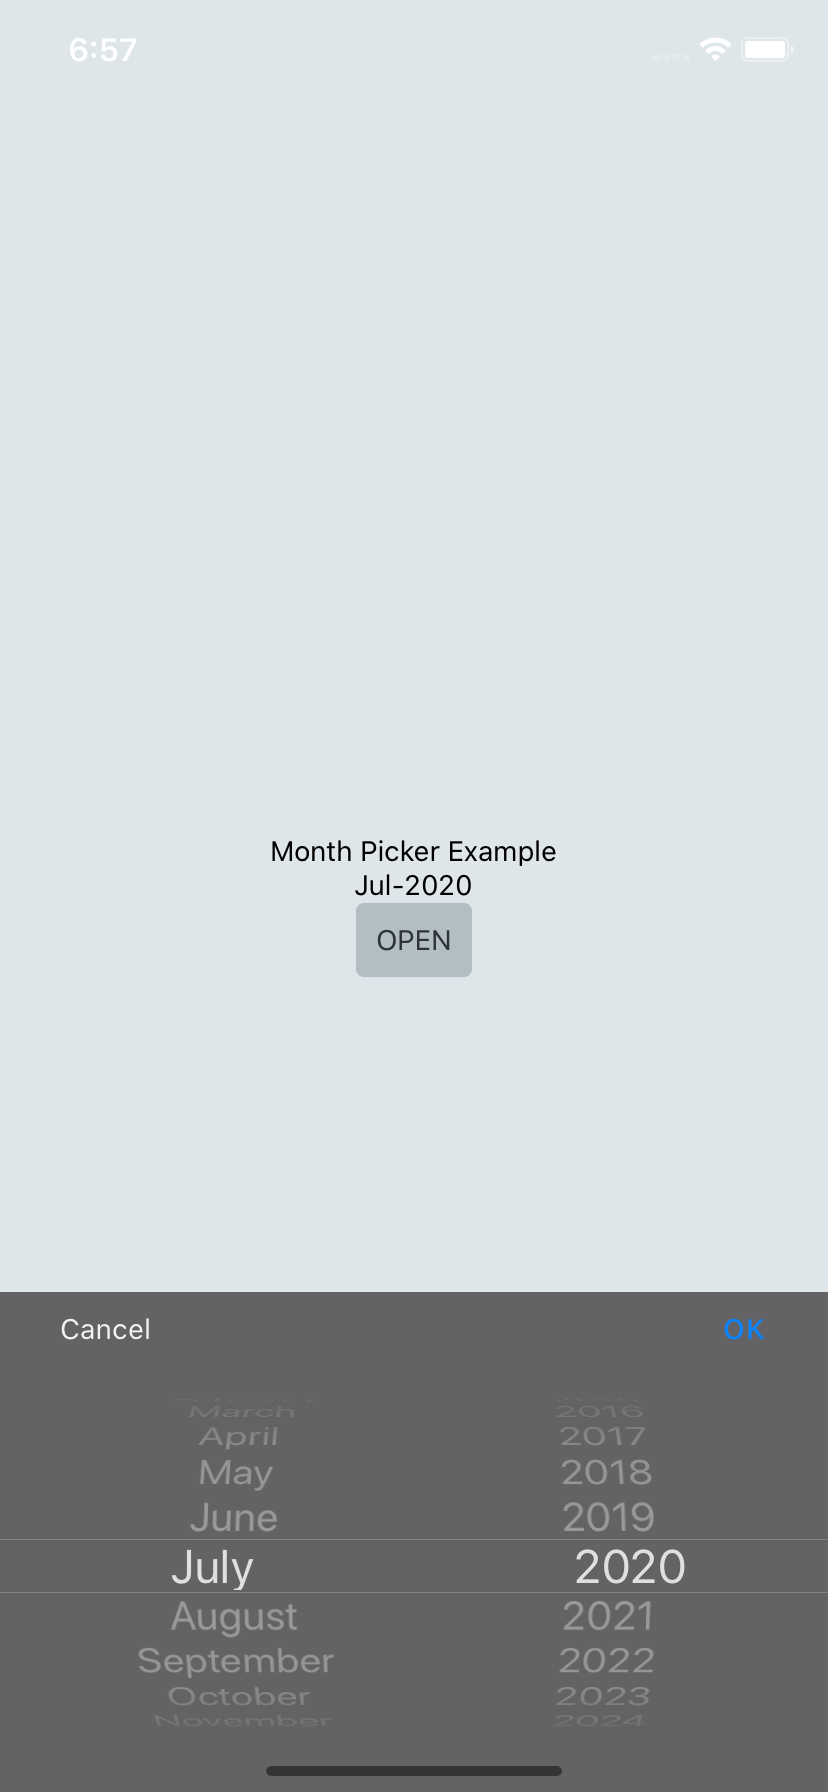
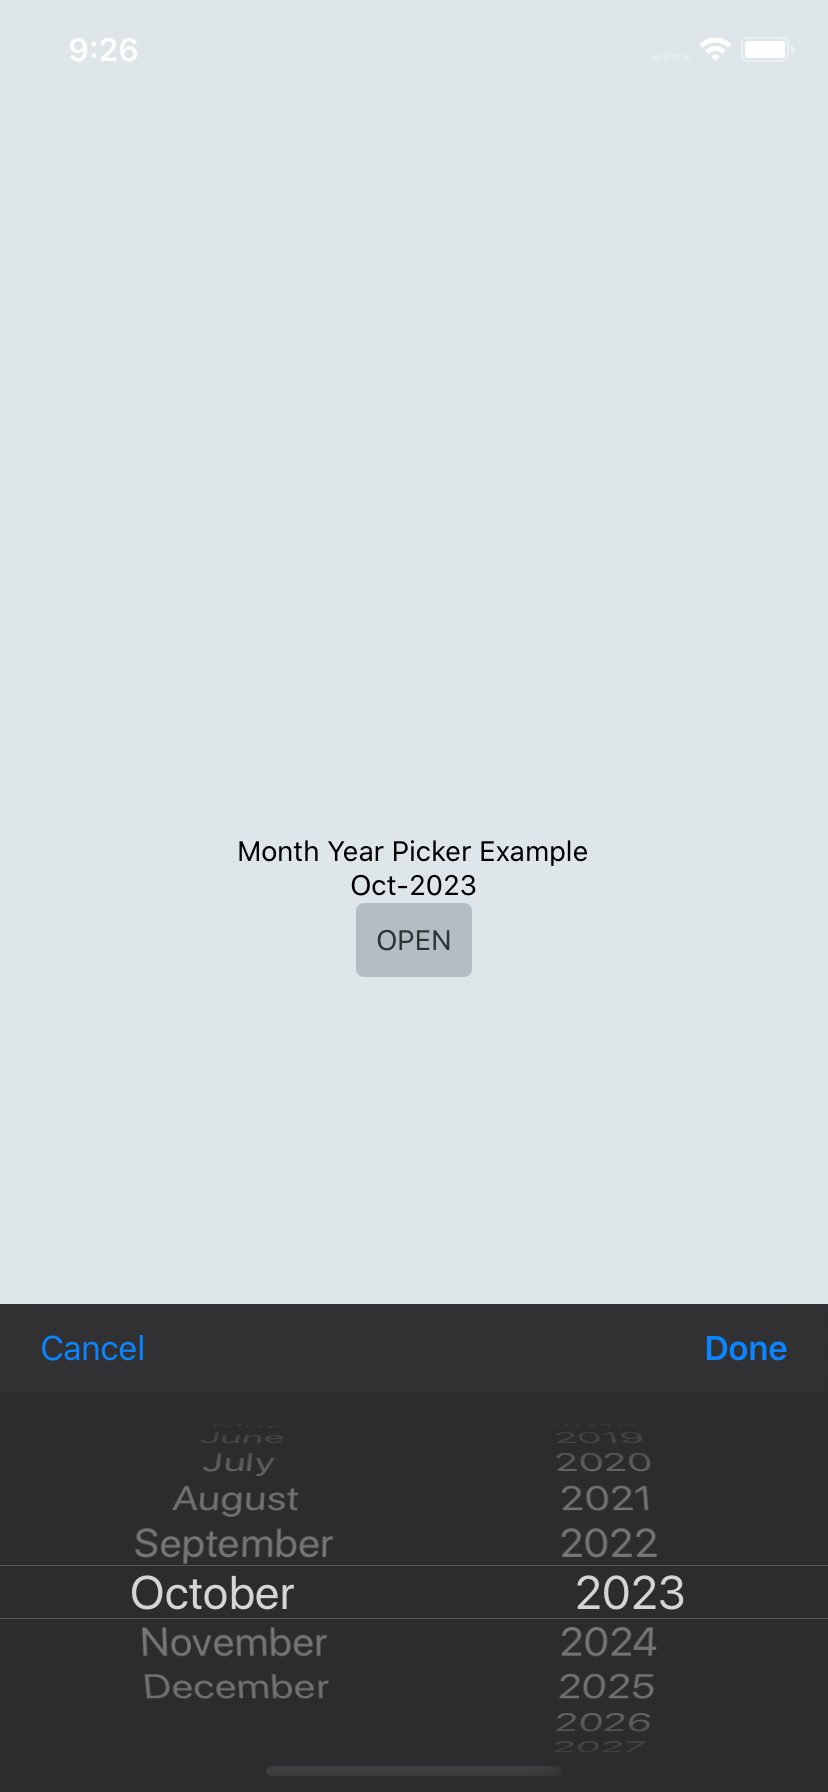
update README

Changed region(s): [[0.0, 0.7188, 1.0, 1.0], [0.3019, 0.4688, 0.6944, 0.5], [0.1208, 0.0, 0.151, 0.0312]]

diff --git a/src/MonthPicker.ios.js b/src/MonthPicker.ios.js
@@ -1,4 +1,4 @@
-import React from 'react';
+import React, { useState, useCallback, useEffect } from 'react';
 import { View, StyleSheet, Dimensions, Animated } from 'react-native';
 import moment from 'moment';
 import invariant from 'invariant';
@@ -23,97 +23,87 @@ const styles = StyleSheet.create({
   picker: { flex: 1 },
 });
 
-class MonthPicker extends React.PureComponent {
-  state = {
-    opacity: new Value(0),
-    currentDate: this.props.value,
-  };
+const MonthPicker = ({
+  value,
+  minimumDate,
+  maximumDate,
+  onChange: onConfirm,
+  locale = null,
+  ...restProps
+}) => {
+  invariant(value, 'value prop is required!');
 
-  slideIn = () => {
-    timing(this.state.opacity, {
+  const [opacity] = useState(new Value(0));
+  const [selectedDate, setSelectedDate] = useState(value);
+
+  useEffect(() => {
+    timing(opacity, {
       toValue: 1,
       duration: 300,
       useNativeDriver: true,
     }).start();
-  };
+    // eslint-disable-next-line react-hooks/exhaustive-deps
+  }, []);
 
-  slideOut = (callBack) => {
-    timing(this.state.opacity, {
-      toValue: 0,
-      duration: 250,
-      useNativeDriver: true,
-    }).start(callBack);
-  };
+  const onChange = useCallback(
+    ({ nativeEvent: { newDate } }) =>
+      setSelectedDate(moment(newDate, NATIVE_FORMAT).toDate()),
+    [],
+  );
 
-  onValueChange = (event) => {
-    const {
-      nativeEvent: { newDate },
-    } = event;
-    const date = moment(newDate, NATIVE_FORMAT).toDate();
-    this.setState({ currentDate: date });
-  };
+  const slideOut = useCallback(
+    (callback) =>
+      timing(opacity, {
+        toValue: 0,
+        duration: 250,
+        useNativeDriver: true,
+      }).start(callback),
+    // eslint-disable-next-line react-hooks/exhaustive-deps
+    [],
+  );
 
-  onConfirm = () => {
-    this.slideOut(
+  const onDone = useCallback(() => {
+    slideOut(
       ({ finished }) =>
-        finished &&
-        this.props.onChange &&
-        this.props.onChange(ACTION_DATE_SET, this.state.currentDate),
+        finished && onConfirm && onConfirm(ACTION_DATE_SET, selectedDate),
     );
-  };
+    // eslint-disable-next-line react-hooks/exhaustive-deps
+  }, [selectedDate]);
 
-  onCancel = () => {
-    this.slideOut(
+  const onCancel = useCallback(() => {
+    slideOut(
       ({ finished }) =>
-        finished &&
-        this.props.onChange &&
-        this.props.onChange(ACTION_DISMISSED, undefined),
+        finished && onConfirm && onConfirm(ACTION_DISMISSED, undefined),
     );
-  };
+    // eslint-disable-next-line react-hooks/exhaustive-deps
+  }, []);
 
-  componentDidMount() {
-    this.slideIn();
-  }
-
-  render() {
-    const {
-      value,
-      minimumDate,
-      maximumDate,
-      backgroundColor = null,
-      locale = null,
-    } = this.props;
-    invariant(value, 'value prop is required!');
-
-    return (
-      <Animated.View
-        style={{
-          ...styles.container,
-          opacity: this.state.opacity,
-          transform: [
-            {
-              translateY: this.state.opacity.interpolate({
-                inputRange: [0, 1],
-                outputRange: [150, 0],
-              }),
-            },
-          ],
-        }}>
-        <View style={styles.pickerContainer}>
-          <RNMonthPickerView
-            {...{ backgroundColor, locale }}
-            value={value.getTime()}
-            minimumDate={minimumDate.getTime()}
-            maximumDate={maximumDate.getTime()}
-            style={styles.picker}
-            onChange={this.onValueChange}
-            onCancel={this.onCancel}
-            onDone={this.onConfirm}
-          />
-        </View>
-      </Animated.View>
-    );
-  }
-}
+  return (
+    <Animated.View
+      style={{
+        ...styles.container,
+        opacity,
+        transform: [
+          {
+            translateY: opacity.interpolate({
+              inputRange: [0.4, 1],
+              outputRange: [150, 0],
+            }),
+          },
+        ],
+      }}>
+      <View style={styles.pickerContainer}>
+        <RNMonthPickerView
+          {...{ locale, onChange, onDone, onCancel }}
+          {...restProps}
+          style={styles.picker}
+          value={value.getTime()}
+          minimumDate={minimumDate.getTime()}
+          maximumDate={maximumDate.getTime()}
+        />
+      </View>
+    </Animated.View>
+  );
+};
 
 export default MonthPicker;

diff --git a/example/App.js b/example/App.js
@@ -9,7 +9,7 @@ const styles = StyleSheet.create({
     flex: 1,
     justifyContent: 'center',
     alignItems: 'center',
-    backgroundColor: 'orange',
+    backgroundColor: '#dfe6e9',
   },
   button: {
     justifyContent: 'center',
@@ -54,7 +54,6 @@ const App = () => {
           value={date}
           minimumDate={new Date()}
           maximumDate={new Date(2025, 5)}
-          locale="es"
         />
       )}
     </SafeAreaView>

diff --git a/ios/RNMonthPicker+Toolbar.m b/ios/RNMonthPicker+Toolbar.m
@@ -19,10 +19,9 @@ RNMonthPicker *picker;
     if ((self = [super initWithFrame:frame])) {
         toolbar = [[UIToolbar alloc] initWithFrame:CGRectMake(0, 0, CGRectGetWidth(screen), 44)];
         cancelButton = [[UIBarButtonItem alloc] initWithBarButtonSystemItem:UIBarButtonSystemItemCancel target:self action:@selector(onCancelButton)];
-        doneButton = [[UIBarButtonItem alloc] initWithBarButtonSystemItem:UIBarButtonSystemItemDone target:self action:@selector(onDoneButton)];
+        doneButton = [[UIBarButtonItem alloc] initWithTitle:@"Done" style:UIBarButtonItemStyleDone target:self action:@selector(onDoneButton)];
         UIBarButtonItem *flexibleSpace = [[UIBarButtonItem alloc] initWithBarButtonSystemItem:UIBarButtonSystemItemFlexibleSpace target:nil action:nil];
         [toolbar setItems:[NSArray arrayWithObjects:cancelButton, flexibleSpace,doneButton,nil]];
-        
         picker = [RNMonthPicker new];
         picker.frame = CGRectMake(0, 44, CGRectGetWidth(screen), 200);
         UIColor* defaultColor;
@@ -32,7 +31,6 @@ RNMonthPicker *picker;
             defaultColor = [UIColor whiteColor];
         }
         [self setValue:defaultColor forKey:@"backgroundColor"];
-        
         [self addSubview:toolbar];
         [self addSubview:picker];
     }
@@ -65,6 +63,22 @@ RNMonthPicker *picker;
 
 - (void)initPicker:(NSString *)locale {
     [picker initMonths:locale];
+}
+
+- (void)setOkButtonLabel:(NSString *)okButtonLabel {
+    NSString *label = okButtonLabel;
+    if (!okButtonLabel) {
+        label = @"Done";
+    }
+    [doneButton setTitle:label];
+}
+
+- (void)setCancelButtonLabel:(NSString *)cancelButtonLabel {
+    NSString *label = cancelButtonLabel;
+    if (!cancelButtonLabel) {
+        label = @"Cancel";
+    }
+    [cancelButton setTitle:label];
 }
 
 @end

diff --git a/android/src/main/java/com/gusparis/monthpicker/adapter/RNPropsAdapter.java b/android/src/main/java/com/gusparis/monthpicker/adapter/RNPropsAdapter.java
@@ -13,7 +13,7 @@ import static com.gusparis.monthpicker.adapter.RNProps.ENABLE_AUTO_DARK_MODE;
 import static com.gusparis.monthpicker.adapter.RNProps.MAXIMUM_VALUE;
 import static com.gusparis.monthpicker.adapter.RNProps.MINIMUM_VALUE;
 import static com.gusparis.monthpicker.adapter.RNProps.OK_BUTTON;
-import static com.gusparis.monthpicker.adapter.RNProps.USE_LOCALE;
+import static com.gusparis.monthpicker.adapter.RNProps.LOCALE;
 import static com.gusparis.monthpicker.adapter.RNProps.VALUE;
 
 public class RNPropsAdapter implements RNMonthPickerProps {
@@ -61,8 +61,8 @@ public class RNPropsAdapter implements RNMonthPickerProps {
   }
 
   @Override
-  public Locale useLocale() {
-    String locale = getStringValue(USE_LOCALE, null);
+  public Locale locale() {
+    String locale = getStringValue(LOCALE, null);
     if (locale == null) {
       return Locale.getDefault();
     }

diff --git a/ios/RNMonthPickerManager.m b/ios/RNMonthPickerManager.m
@@ -24,6 +24,8 @@ RCT_EXPORT_VIEW_PROPERTY(onChange, RCTBubblingEventBlock)
 RCT_EXPORT_VIEW_PROPERTY(value, NSDate)
 RCT_EXPORT_VIEW_PROPERTY(minimumDate, NSDate)
 RCT_EXPORT_VIEW_PROPERTY(maximumDate, NSDate)
+RCT_REMAP_VIEW_PROPERTY(okButton, okButtonLabel, NSString)
+RCT_REMAP_VIEW_PROPERTY(cancelButton, cancelButtonLabel, NSString)
 
 RCT_CUSTOM_VIEW_PROPERTY(locale, NSString, RNMonthPickerToolbar) {
     NSString *defaultLocale;

diff --git a/android/src/main/java/com/gusparis/monthpicker/builder/MonthNumberPicker.java b/android/src/main/java/com/gusparis/monthpicker/builder/MonthNumberPicker.java
@@ -12,7 +12,7 @@ class MonthNumberPicker extends MonthYearNumberPicker {
 
   @Override
   MonthNumberPicker build() {
-    String [] months = new DateFormatSymbols(props.useLocale())
+    String [] months = new DateFormatSymbols(props.locale())
         .getMonths();
     monthPicker.setMinValue(0);
     monthPicker.setMaxValue(11);

diff --git a/ios/RNMonthPicker+Toolbar.h b/ios/RNMonthPicker+Toolbar.h
@@ -16,6 +16,8 @@
 @property (nonatomic, assign) NSDate* value;
 @property (nonatomic, assign) NSDate* minimumDate;
 @property (nonatomic, assign) NSDate* maximumDate;
+@property (nonatomic, assign) NSString* okButtonLabel;
+@property (nonatomic, assign) NSString* cancelButtonLabel;
 
 - (void)initPicker:(NSString *)locale;
 

diff --git a/android/src/main/java/com/gusparis/monthpicker/adapter/RNProps.java b/android/src/main/java/com/gusparis/monthpicker/adapter/RNProps.java
@@ -7,7 +7,7 @@ public enum RNProps {
   ENABLE_AUTO_DARK_MODE("enableAutoDarkMode"),
   OK_BUTTON("okButton"),
   CANCEL_BUTTON("cancelButton"),
-  USE_LOCALE("useLocale");
+  LOCALE("locale");
 
   private String value;
 

diff --git a/android/src/main/java/com/gusparis/monthpicker/adapter/RNMonthPickerProps.java b/android/src/main/java/com/gusparis/monthpicker/adapter/RNMonthPickerProps.java
@@ -16,7 +16,7 @@ public interface RNMonthPickerProps {
 
   Boolean enableAutoDarkMode();
 
-  Locale useLocale();
+  Locale locale();
 
   void onChange(int year, int month);
 

diff --git a/README.md b/README.md
@@ -62,7 +62,7 @@ const App = () => {
           value={date}
           minimumDate={new Date()}
           maximumDate={new Date(2025, 5)}
-          enableAutoDarkMode={false}
+          locale="ko"
         />
       )}
     </SafeAreaView>
@@ -111,6 +111,14 @@ Defines the date value used in the component.
 <RNMonthPicker value={new Date()} />
 ```
 
+#### `locale` (`optional`)
+
+Defines the month list locale. If not sent, it defaults to device's language.
+
+```js
+<RNMonthPicker locale="ru" />
+```
+
 #### `maximumDate` (`optional`)
 
 Defines the maximum date that can be selected. Use year and month constructor.
@@ -127,17 +135,9 @@ Defines the minimum date that can be selected. Use year and month constructor.
 <RNMonthPicker minimumDate={new Date(2020, 5)} />
 ```
 
-#### `outputFormat` (`optional`)
-
-Defines the output format in which the date will return. Defaults to `MM-YYYY`. Refer to [moment.js docs](https://momentjs.com/docs/#/parsing/string-format/) for more information about formats.
-
-```js
-<RNMonthPicker outputFormat="M-YY" />
-```
-
 #### `okButton` (`optional`)
 
-Picker modal confirmation button text. Default `OK`.
+Picker modal confirmation button text. Default `Done`.
 
 ```js
 <RNMonthPicker okButton="Confirm" />
@@ -149,30 +149,6 @@ Picker modal cancelation button text. Default `Cancel`.
 
 ```js
 <RNMonthPicker cancelButton="Abort" />
-```
-
-#### `okButtonStyle` (`iOS only`)
-
-Picker modal confirmation button text style.
-
-```js
-<RNMonthPicker okButtonStyle={{ color: 'blue', letterSpacing: 1.0 }} />
-```
-
-#### `cancelButtonStyle` (`iOS only`)
-
-Picker modal cancelation button text style.
-
-```js
-<RNMonthPicker cancelButtonStyle={{ color: 'red', letterSpacing: 0.25 }} />
-```
-
-#### `enableAutoDarkMode`
-
-Enables auto Dark Mode recognition. If set to `false` or **iOS < v13.0** and **Android < 10**, it will display Light Mode. Default `true`.
-
-```js
-<RNMonthPicker enableAutoDarkMode={false} />
 ```
 
 ## Running example
